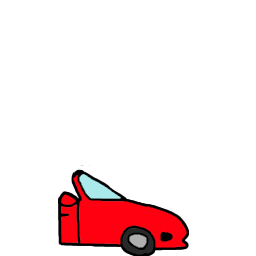
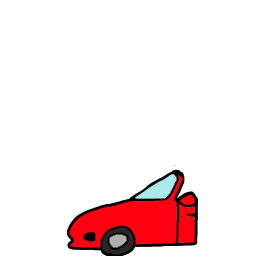
Refactored, flipped doors, finished random goats

Changed region(s): [[0.2188, 0.6562, 0.7812, 1.0]]

diff --git a/src/components/Game.js b/src/components/Game.js
@@ -4,6 +4,7 @@ import Door from './Door.js';
 class Game extends Component {
   constructor (props) {
     super(props);
+
     let numOfDoors = this.props.numOfDoors;
     if (numOfDoors < Game.MIN_DOORS) {
       numOfDoors = Game.MIN_DOORS;
@@ -11,12 +12,13 @@ class Game extends Component {
       numOfDoors = Game.MAX_DOORS;
     }
 
+    let doors = this.generateDoors(numOfDoors);
+
     this.state = {
       currentPhase: 0,
-      prizeDoor: Math.floor((Math.random() * numOfDoors)),
       selectedDoor: null,
       phases: ["closeAll", "openZonks", "openAll"],
-      openDoors: Array(parseInt(numOfDoors, 10)).fill(false),
+      doors: doors,
       firstChoice: null,
       numSwitches: 0,
       numStays: 0,
@@ -26,28 +28,50 @@ class Game extends Component {
     };
   }
 
+  generateDoors(numOfDoors) {
+    let doors = [];
+    let prizeIndex = Math.floor((Math.random() * numOfDoors));
+    console.log("Generated prize behind door #" + (prizeIndex + 1) + " (array index " + prizeIndex + ")");
+    for (var i = 0; i < numOfDoors; i++) {
+      if (prizeIndex === i) {
+        doors.push({content: "prize", isOpen: false});
+      } else {
+        let randNum = (Math.floor(Math.random() * 9) + 1);
+        if (randNum >= 5) {
+          randNum = 1;
+        } else if (randNum >= 2) {
+          randNum = 2;
+        } else {
+          randNum = 3;
+        }
+        doors.push({content: "zonk zonk" + randNum, isOpen: false});
+      }
+    };
+    return doors;
+  }
+
   render() {
-    console.log("RENDERING: " + JSON.stringify(this.state));
+    //console.log("RENDERING: " + JSON.stringify(this.state));
     let doors = [];
     let numOfClosedDoors = 0;
-    for (let i = 0; i < this.state.openDoors.length; i++) {
+    this.state.doors.forEach((door, i) => {
+      //console.log("Rendering this door: " + JSON.stringify(door));
+      if (!door.isOpen) numOfClosedDoors++;
       let isSelected = (this.state.selectedDoor !== null && this.state.selectedDoor === i);
-      let isOpen = this.state.openDoors[i];
-      if (!isOpen) numOfClosedDoors++;
-      let hasPrize = this.state.prizeDoor === i;
-      doors.push(<Door number={i+1} clickHandler={(e) => this.clickDoor(e, i)} isSelected={isSelected} isOpen={isOpen} hasPrize={hasPrize}/>);
-    }
+      doors.push(<Door number={i+1} clickHandler={(e) => this.clickDoor(e, i)} isSelected={isSelected} isOpen={door.isOpen} content={door.content}/>);
+    });
+
     let topInfo = "";
     let buttonText = "Next";
     if (numOfClosedDoors === 0) {
-      if (this.state.selectedDoor === this.state.prizeDoor) {
+      if (this.state.doors[this.state.selectedDoor].content === "prize") {
         topInfo = "Congratulations, you won!";
       } else {
         topInfo = "Aw, nuts! You lost.";
       }
       buttonText = "Again!";
     } else {
-      topInfo = "There are " + numOfClosedDoors + " closed doors out of " + this.state.openDoors.length + ". The odds of randomly guessing the correct door right now are 1 in " + numOfClosedDoors + ", or about " + (Math.round((1 / numOfClosedDoors) * 100)) + "%:";
+      topInfo = "There are " + numOfClosedDoors + " closed doors out of " + this.state.doors.length + ". The odds of randomly guessing the correct door right now are 1 in " + numOfClosedDoors + ", or about " + (Math.round((1 / numOfClosedDoors) * 100)) + "%:";
     }
     let switchPercent = Math.round(this.state.numSwitchWins / this.state.numSwitches * 100);
     let stayPercent = Math.round(this.state.numStayWins / this.state.numStays * 100);
@@ -68,7 +92,7 @@ class Game extends Component {
     let button = (this.state.selectedDoor !== null) ? <button onClick={(e) => this.nextPhase(e)}>{buttonText}</button> : <button disabled="true">{buttonText}</button>;
     return (
       <section className="game">
-        <div>Select number of doors for next game: <input id="door-num-input" type="text" defaultValue={this.state.openDoors.length}/></div>
+        <div>Select number of doors for next game: <input id="door-num-input" type="text" defaultValue={this.state.doors.length}/></div>
         <div>{topInfo}</div>
         {
           doors.map((door,index) => {
@@ -95,7 +119,7 @@ class Game extends Component {
   clickDoor(e, i) {
     e.preventDefault();
     console.log("Clicked on door #" + (i + 1));
-    if (this.state.openDoors[i]) return;
+    if (this.state.doors[i].isOpen) return;
     this.setState({selectedDoor: i});
     console.log("Set selectedDoor index = " + i);
   }
@@ -124,10 +148,11 @@ class Game extends Component {
       document.getElementById("door-num-input").value = numOfDoors;
     }
 
+    let doors = this.generateDoors(numOfDoors);
+
     this.setState({
       currentPhase: 0,
-      prizeDoor: Math.floor((Math.random() * numOfDoors)),
-      openDoors: Array(parseInt(numOfDoors, 10)).fill(false),
+      doors: doors,
       selectedDoor: null,
       firstChoice: null,
       secondChoice: null
@@ -136,36 +161,45 @@ class Game extends Component {
 
   openZonks() {
     let doorToKeepShut;
-    if (this.state.selectedDoor === this.state.prizeDoor) {
-      doorToKeepShut = Math.floor(Math.random() * (this.props.numOfDoors - 1));
+    if (this.state.doors[this.state.selectedDoor].content === "prize") {
+      doorToKeepShut = Math.floor(Math.random() * (this.state.doors.length - 1));
       if (doorToKeepShut >= this.state.selectedDoor) {
         doorToKeepShut++;
       }
     } else {
-      doorToKeepShut = this.state.prizeDoor;
+      this.state.doors.forEach((door, index) => {
+        if (door.content === "prize") {
+          doorToKeepShut = index;
+          return;
+        }
+      });
     }
-    let doorsToOpen = [];
-    for (var i = 0; i < this.state.openDoors.length; i++) {
-      if (i !== doorToKeepShut && i !== this.state.selectedDoor) {
-        doorsToOpen.push(true);
-      } else {
-        doorsToOpen.push(false);
-      }
+
+    let newDoors = [];
+    for (var i = 0; i < this.state.doors.length; i++) {
+      newDoors.push({content: this.state.doors[i].content, isOpen: (i !== doorToKeepShut && i !== this.state.selectedDoor)});
     }
-    this.setState({openDoors: doorsToOpen, firstChoice: this.state.selectedDoor});
+
+    this.setState({doors: newDoors, firstChoice: this.state.selectedDoor});
     console.log("Chose not to reveal door number " + (doorToKeepShut+1) + "...");
+    //console.log("Current state: " + JSON.stringify(this.state.doors));
+    //console.log("New doors: " + JSON.stringify(newDoors));
   }
 
   openAll() {
-    let newState = {openDoors: Array(this.state.openDoors.length).fill(true), numGamesPlayed: this.state.numGamesPlayed + 1};
+    let newDoors = this.state.doors;
+    newDoors.forEach((door) => {
+      door.isOpen = true;
+    });
+    let newState = {doors: newDoors, numGamesPlayed: this.state.numGamesPlayed + 1};
     if (this.state.firstChoice !== this.state.selectedDoor) {
       newState.numSwitches = this.state.numSwitches + 1;
-      if (this.state.selectedDoor === this.state.prizeDoor) {
+      if (this.state.doors[this.state.selectedDoor].content === "prize") {
         newState.numSwitchWins = this.state.numSwitchWins + 1;
       }
     } else {
       newState.numStays = this.state.numStays + 1;
-      if (this.state.selectedDoor === this.state.prizeDoor) {
+      if (this.state.doors[this.state.selectedDoor].content === "prize") {
         newState.numStayWins = this.state.numStayWins + 1;
       }
     }

diff --git a/src/components/Door.js b/src/components/Door.js
@@ -1,24 +1,9 @@
 import React, { Component } from 'react';
 
 class Door extends Component {
-  constructor(props) {
-    super(props);
-    let randNum = (Math.floor(Math.random() * 6) + 1);
-    if (randNum >= 3) {
-      randNum = 1;
-    } else if (randNum > 1) {
-      randNum = 2;
-    } else {
-      randNum = 3;
-    }
-    this.state = {
-      variation: randNum
-    }
-  }
-
   render() {
     let doorClass = this.props.isOpen ? "door-open" : "door-closed";
-    let prizeClass = this.props.hasPrize ? "prize" : "zonk zonk" + this.state.variation;
+    let prizeClass = this.props.content;
     let parentClass = "door";
     if (this.props.isSelected) parentClass += " door-selected";
     if (!this.props.isOpen) {
@@ -40,7 +25,7 @@ class Door extends Component {
 Door.defaultProps = {
   number: 0,
   isSelected: false,
-  hasPrize: false,
+  content: "zonk1",
   isOpen: false,
   clickHandler: () => {
     console.log("No click handler has been set up for this door.");
